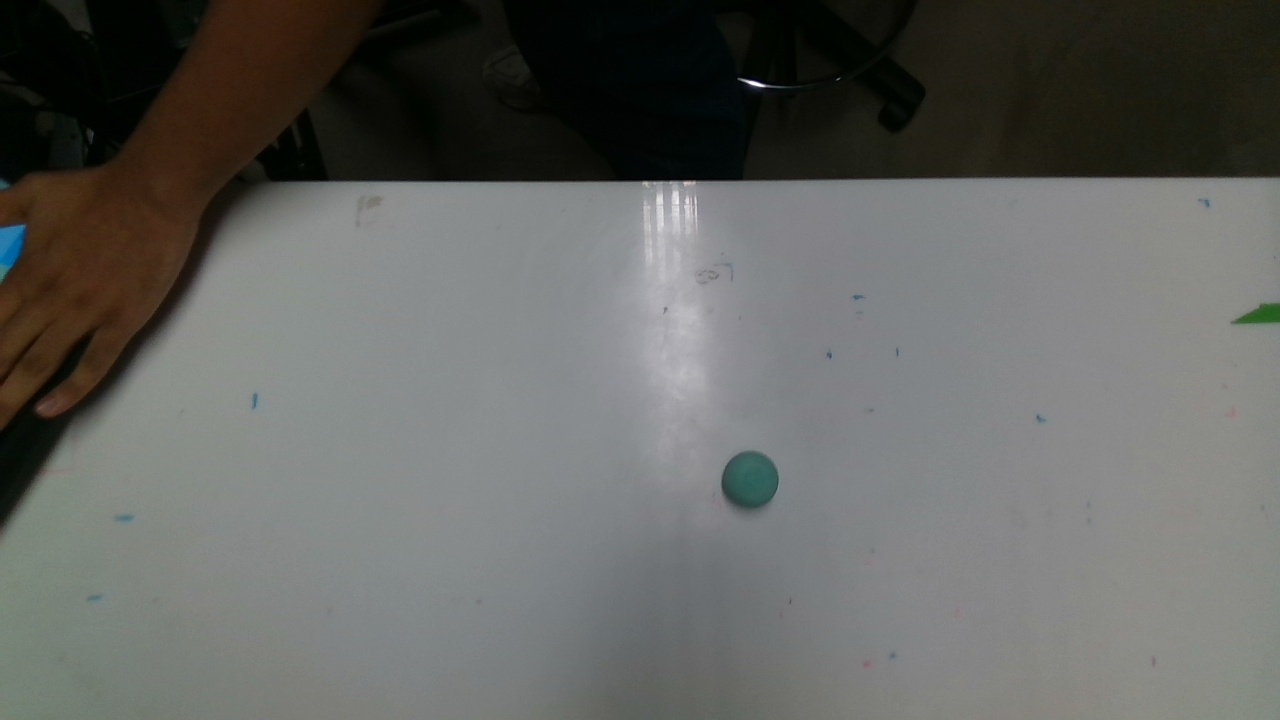
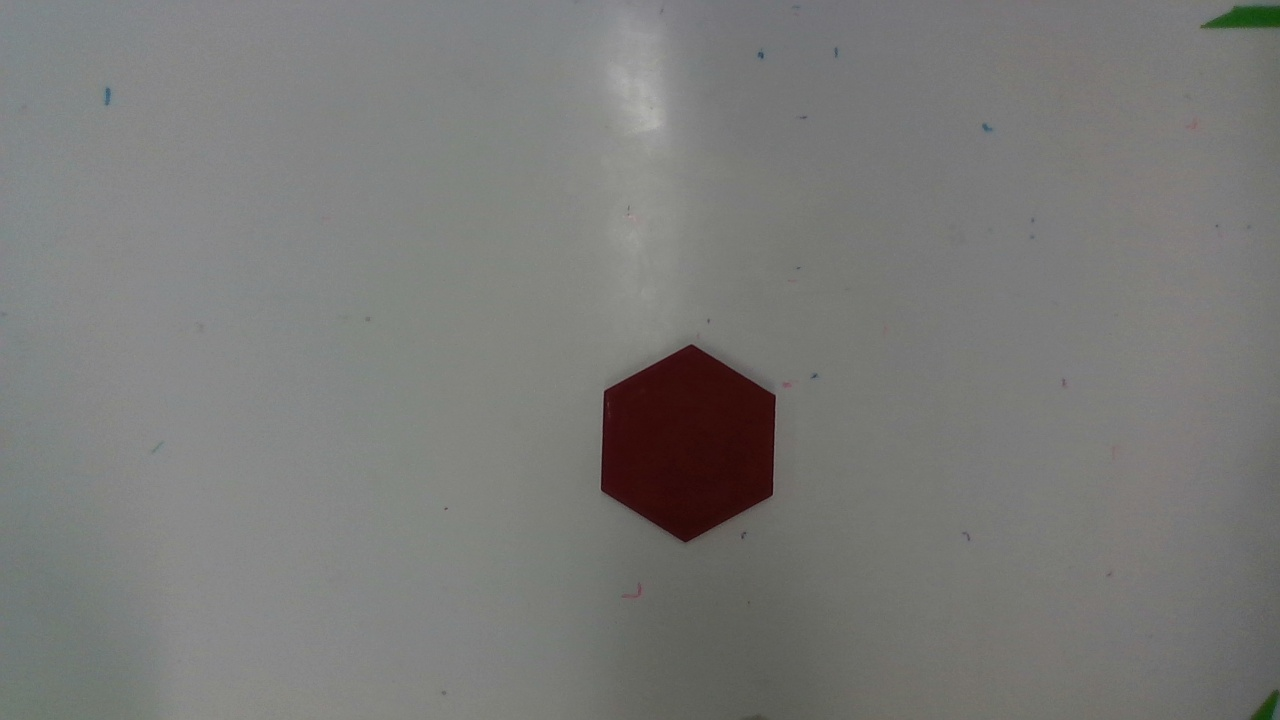
left pick and place server tuned

diff --git a/ai_soft_touch_motion_planning/launch/launch_servers.launch.py b/ai_soft_touch_motion_planning/launch/launch_servers.launch.py
@@ -68,16 +68,16 @@ def generate_launch_description():
             "place_x":0.161,
             "place_y":0.637,
             "place_z":0.038,
-            "orientation_w":0.038,
-            "orientation_x":0.369,
-            "orientation_y":0.927,
-            "orientation_z":-0.057,
-            "pick_offset_x":0.0,
-            "pick_offset_y":0.0,
+            "orientation_w":-0.030,
+            "orientation_x":0.005,
+            "orientation_y":0.999,
+            "orientation_z":-0.011,
+            "pick_offset_x":0.005,
+            "pick_offset_y":0.01,
             "pick_offset_z":0.0,
             "look_offset_x":0.0,
-            "look_offset_y":0.0,
-            "look_offset_z":0.45,
+            "look_offset_y":0.08,
+            "look_offset_z":0.35,
             "place_step_x":0.05,
             "place_step_y":0.05,
             "height_of_movement":0.25,
@@ -85,11 +85,11 @@ def generate_launch_description():
             "pin_out1":12,
             "pin_out2":0,
             "arm_side":"left",
-            "ft_threshold": 5.0,
-            "speed":0.01,
-            "pretouch_distance":0.1,
+            "ft_threshold": 10.0,
+            "speed":0.13,
+            "pretouch_distance":0.06,
         },
-        {"use_sim_time":True},
+        # {"use_sim_time":True},
         ],
     )
 

diff --git a/central_client/scripts/motion_planning_with_perception_v2.py b/central_client/scripts/motion_planning_with_perception_v2.py
@@ -12,7 +12,7 @@ from open_set_object_detection_msgs.srv import GetObjectLocations
 from std_msgs.msg import String
 from geometry_msgs.msg import PoseStamped
 
-TEXT_PROMPT = "cyan_ball"
+TEXT_PROMPT = "red_hexagon"
 
 
 class PerceptionAndPickClient(Node):
